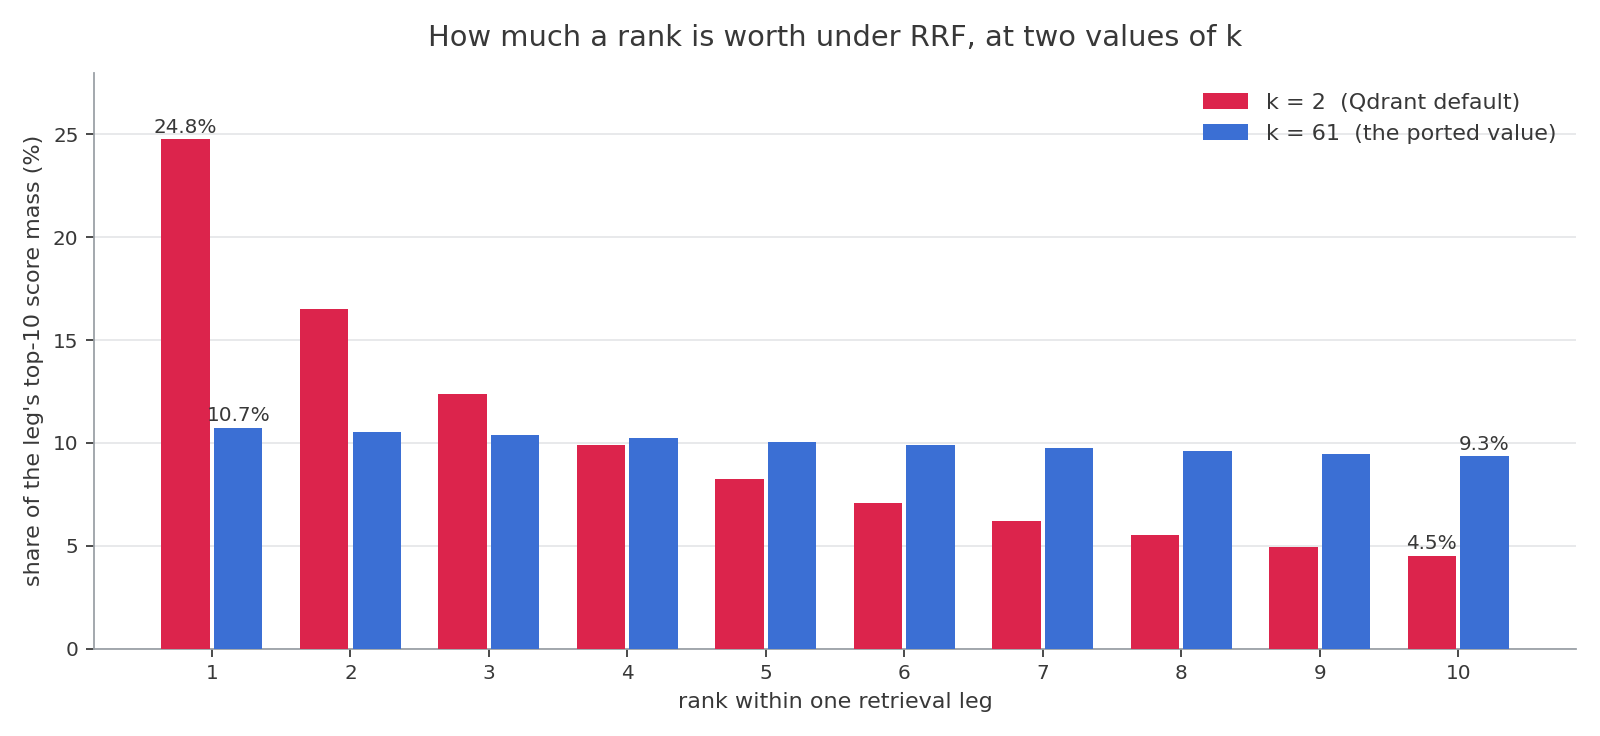
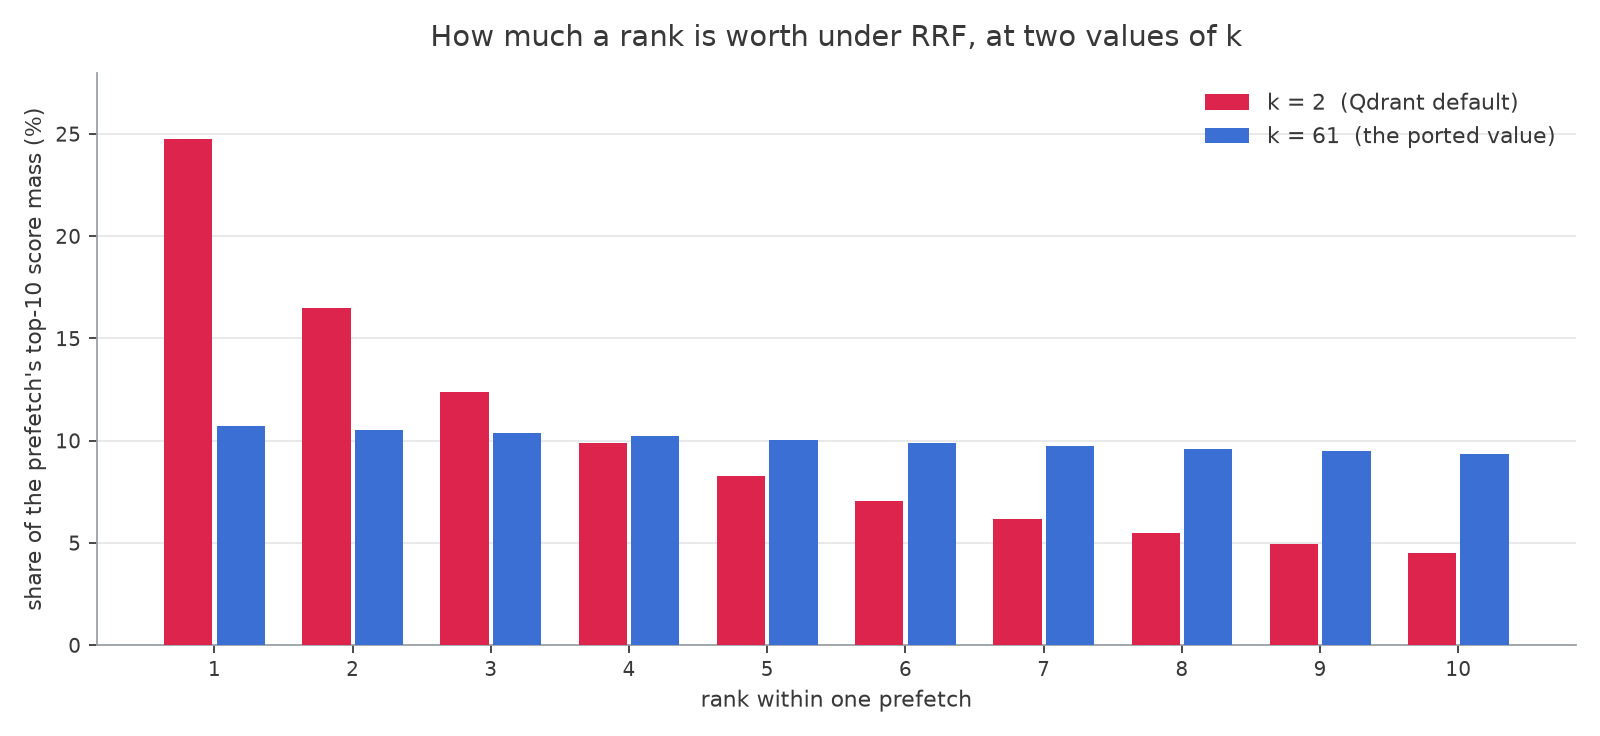
article 3

diff --git a/qdrant-landing/content/articles/how-to-tune-hybrid-search.md b/qdrant-landing/content/articles/how-to-tune-hybrid-search.md
@@ -7,7 +7,7 @@ social_preview_image: /articles_data/how-to-tune-hybrid-search/preview/social_pr
 weight: -211
 author: Dylan Couzon
 author_link: https://www.linkedin.com/in/dcouzon/
-date: 2026-08-13T00:00:00+03:00
+date: 2026-08-11T00:00:00+03:00
 draft: false
 keywords:
   - hybrid search tuning
@@ -18,79 +18,92 @@ keywords:
 category: search-quality
 ---
 
-Hybrid search gives you two lists and one ranking. A dense prefetch finds similar meaning; a sparse prefetch finds matching terms such as identifiers, SKUs, and error codes. Fusion combines them.
+Before you tune fusion, use the [pre-tuning checks](/articles/before-tuning-a-qdrant-collection/) to verify index state and set a labeled baseline.
 
-When the ranking looks plausible but not quite right, fusion is the cheapest place to look. It is arithmetic over two lists you already paid to retrieve: no rebuild, no extra latency, no second model.
+Hybrid search retrieves dense and sparse candidate lists, then fuses them into one ranking. The dense prefetch finds similar meaning; the sparse prefetch finds matching keywords. Fusion cannot rank a candidate neither prefetch returned.
 
-There are three knobs: the fusion method, RRF's `k`, and the weights. The numbers come from five public corpora of 5,183 to 100,000 documents, retrieved with `all-MiniLM-L6-v2` and Qdrant's core BM25, unquantized on a single shard. Every gain carries a 95% interval from resampling per-query differences, and [building a labeled set](/articles/before-tuning-a-qdrant-collection/) has the method.
+<aside role="status">
+In a multi-shard collection, each shard applies its own prefetch <code>limit</code>. With root-level fusion, Qdrant combines those candidates across shards. A larger limit can expose more candidates to fusion, but it also adds retrieval work and candidates for a downstream reranker. Fusion nested inside a prefetch runs per shard. The <a href="/articles/candidate-depth/">candidate depth guide</a> explains how to set it.
+</aside>
 
-Fusion can only rank what the two prefetches retrieved. [Candidate depth](/articles/candidate-depth/) decides that. Start the prefetch `limit` at 100 or 200 before tuning fusion.
+## Confirm Fusion Beats Either Prefetch
 
-That `limit` is per shard. Each shard runs the prefetch against its own data and returns up to `limit` candidates, so on twelve shards a `limit` of 200 gives the root-level fusion up to 2,400 documents to merge. The root-level fusion itself runs once, at collection level; only a fusion nested inside a prefetch runs per shard.
+Before tuning, compare dense retrieval, sparse retrieval, and their default RRF result with `nDCG@10`. It grades the top 10 results and gives more credit to relevant documents near the top. The last column is default RRF's `nDCG@10` minus the better individual prefetch.
 
-## Start With This Sweep
+These results come from five public datasets with 5,183 to 100,000 documents. Each collection ran unquantized on one shard, with `all-MiniLM-L6-v2` for dense retrieval and Qdrant's core BM25 for sparse retrieval.<br>
+Each reported gain was evaluated with a 95% interval. The held-out validation section explains how to use it. [Building a labeled set](/articles/before-tuning-a-qdrant-collection/) explains the method.
 
-If you have a labeled query set, try these settings in order:
+| Dataset | Dense alone | Sparse alone | Both, RRF (`k=2`) | Over the better one |
+|---|---|---|---|---|
+| SciFact | 0.6239 | 0.6886 | 0.7175 | +0.0289 |
+| ArguAna | 0.4905 | 0.4224 | 0.5216 | +0.0311 |
+| WANDS | 0.6921 | 0.7098 | 0.7254 | +0.0156 |
+| CodeSearchNet | 0.6299 | 0.5126 | 0.6555 | +0.0256 |
+| DBPedia-entity | 0.4677 | 0.3857 | 0.4638 | -0.0039 |
 
-1. Compare the RRF default with [DBSF](/documentation/search/hybrid-queries/#distribution-based-score-fusion-dbsf).
-2. If RRF wins, sweep `k` around 2 for queries with one clear answer, and around 20 to 61 when many documents can be relevant.
-3. Keep equal weights unless a measured difference supports a specific pair of weights.
-4. Confirm the winner on fresh queries. [Measuring retrieval relevance](/documentation/improve-search/retrieval-relevance/) explains how to build the evaluation set.
+Fusion outscored both prefetches in four datasets. DBPedia-entity shows why this is a measurement, not an assumption: fusion trails dense retrieval by 0.0039. The differences are small, so they do not establish a gain on your dataset.
 
-This is a small experiment with no rebuild and no new model call.
+The second prefetch costs a second index, a second vector per point, and 0.6 to 1.5 ms of query time in these single-shard measurements. Keep it when it improves relevance on your own labels.
 
-## What Each Fusion Setting Changes
+## RRF and DBSF Use Different Signals
 
-**The fusion method** decides how the two ranked lists become one. [Reciprocal Rank Fusion](/documentation/search/hybrid-queries/#reciprocal-rank-fusion-rrf) (RRF) reads only each document's position in a list. [Distribution-based score fusion](/documentation/search/hybrid-queries/#distribution-based-score-fusion-dbsf) (DBSF) normalizes each prefetch's scores against its own mean and standard deviation, then sums them. In other words, DBSF can use the size of a score lead, while RRF cannot.
+[Reciprocal Rank Fusion](/documentation/search/hybrid-queries/#reciprocal-rank-fusion-rrf) (RRF) uses only a candidate's position in each prefetch. [Distribution-based score fusion](/documentation/search/hybrid-queries/#distribution-based-score-fusion-dbsf) (DBSF) normalizes each prefetch's scores using that prefetch's mean and standard deviation, then sums them. DBSF can use the size of a score lead; RRF cannot.
 
-**The constant `k`** applies to RRF only. Qdrant scores a document at position `pos` in one prefetch as `1 / ((pos + 1) / weight + k - 1)`, then sums across prefetches. With equal weights that reduces to `1 / (pos + k)`, and `k` alone decides how steeply the head of a list outranks its tail.
+## Compare RRF and DBSF on Your Labels
 
-{{< figure src="/articles_data/how-to-tune-hybrid-search/rrf-k-rank-weight.png" alt="Grouped bar chart comparing the share of a retrieval prefetch's top-10 score mass at each rank, for k equal to 2 and k equal to 61. At k=2 rank 1 takes 24.8 percent and rank 10 takes 4.5 percent. At k=61 the shares are nearly flat, 10.7 percent at rank 1 and 9.3 percent at rank 10." caption="At Qdrant's default of k=2, rank 1 is worth 5.50x rank 10. At k=61 it is worth 1.15x, and the prefetch contributes little more than a membership vote." width="100%" >}}
-
-Low `k` rewards a document that one prefetch ranked first. High `k` flattens the curve until appearing in both lists matters more than either one's top rank.
-
-**A weight per prefetch** stretches or compresses that prefetch's positions. Both `k` and the weights live in `models.Rrf`. The plain `models.FusionQuery(fusion=models.Fusion.RRF)` form takes no parameters, so anything you want to tune goes through `RrfQuery`:
+Use your [labeled query set](/articles/before-tuning-a-qdrant-collection/#make-sure-your-labels-can-detect-a-gain) to compare RRF and DBSF over the same prefetches.<br>
+Start with RRF at `k=2` and equal weights, then run DBSF. If RRF wins, test `k` values from 2 to 61. If DBSF wins, take it forward to held-out validation. Lower values favor a document one prefetch ranks highly; higher values give more credit to documents both prefetches retrieve.
 
 ```python
-from qdrant_client import models
+import os
+
+from qdrant_client import QdrantClient, models
+
+client = QdrantClient(
+    url="https://YOUR-CLUSTER.cloud.qdrant.io",
+    api_key=os.environ["QDRANT_API_KEY"],
+)
 
 # Both prefetches must use the models the collection was indexed with.
 from your_embedding_setup import dense_query, sparse_query
 
 dense_prefetch = models.Prefetch(query=dense_query, using="dense", limit=200)
 sparse_prefetch = models.Prefetch(query=sparse_query, using="bm25", limit=200)
+prefetches = [dense_prefetch, sparse_prefetch]
 
-response = client.query_points(
+rrf_response = client.query_points(
     collection_name="products",
-    prefetch=[dense_prefetch, sparse_prefetch],
-    query=models.RrfQuery(rrf=models.Rrf(k=61, weights=[1.0, 1.0])),
+    prefetch=prefetches,
+    query=models.RrfQuery(rrf=models.Rrf(k=2, weights=[1.0, 1.0])),
     limit=10,
 )
+
+dbsf_response = client.query_points(
+    collection_name="products",
+    prefetch=prefetches,
+    query=models.FusionQuery(fusion=models.Fusion.DBSF),
+    limit=10,
+)
+
+# For an RRF variant, change k and keep the tested weight pair:
+# models.Rrf(k=20, weights=[1.0, 1.0])
 ```
 
-Those two named prefetches carry through every example below.
+This code requires Qdrant v1.17 or later and a compatible `qdrant-client` release that exposes `models.RrfQuery`.
 
-## Test DBSF Before Tuning RRF
+## Use Labels to Choose a `k` Range
 
-RRF is the right default, and it is Qdrant's, because it works when the two prefetches produce scores on incompatible scales. DBSF is one line to try.
+The constant `k` applies to RRF only. Qdrant scores a document at position `pos` in one prefetch as `1 / ((pos + 1) / weight + k - 1)`, then sums across prefetches. With equal weights that reduces to `1 / (pos + k)`, and `k` alone decides how steeply the head of a list outranks its tail.
 
-It was the better choice more often than not here: across five corpora it beat the RRF default on four, and on three of those the gain was large enough to survive a change of query sample.
+{{< figure src="/articles_data/how-to-tune-hybrid-search/rrf-k-rank-weight.png" alt="Grouped bar chart comparing the share of a retrieval prefetch's top-10 score mass at each rank, for k equal to 2 and k equal to 61. At k=2 rank 1 takes 24.8 percent and rank 10 takes 4.5 percent. At k=61 the shares are nearly flat, 10.7 percent at rank 1 and 9.3 percent at rank 10." caption="At Qdrant's default of k=2, rank 1 is worth 5.50x rank 10. At k=61 it is worth 1.15x, so a candidate's presence in a prefetch matters almost as much as its position." width="100%" >}}
 
-```python
-query=models.FusionQuery(fusion=models.Fusion.DBSF)
-```
+The table gives nDCG@10 at equal weights across five values of `k`, with the best RRF cell per row in bold. The `k=2` column is default RRF, and DBSF appears beside it.
 
-A document retrieved by only one prefetch keeps that prefetch's normalized score under DBSF. The prefetch that missed it adds nothing. The document therefore competes with one score against documents carrying the sum of two, which is why DBSF favors agreement.
+Every dataset ran the same stack: `all-MiniLM-L6-v2` for the dense prefetch, Qdrant's core BM25 for the sparse one, and 200 candidates from each.
 
-Its one loss was on ArguAna, 0.0045 below the default. That difference sits inside the corpus's measurement interval, so the result is inconclusive.
+For the DBSF column, a document retrieved by one prefetch keeps that prefetch's normalized score. A document retrieved by both carries two normalized scores.
 
-## Relevant Documents Per Query Point `k` in the Right Direction
-
-The table gives nDCG@10 at equal weights across five values of `k`, with the best RRF cell per row in bold and DBSF alongside. nDCG@10 grades the top 10 results and gives more credit to relevant documents near the top; [choosing a metric](/articles/before-tuning-a-qdrant-collection/#choose-a-metric-before-you-tune) covers when to use it.
-
-Every corpus ran the same stack: `all-MiniLM-L6-v2` for the dense prefetch, Qdrant's core BM25 for the sparse one, and 200 candidates from each.
-
-| Corpus | Queries | Relevant per query | k=1 | k=2 | k=5 | k=20 | k=61 | DBSF |
+| Dataset | Queries | Relevant per query | k=1 | k=2 | k=5 | k=20 | k=61 | DBSF |
 |---|---|---|---|---|---|---|---|---|
 | ArguAna | 1,401 | 1.0 | 0.517 | 0.522 | **0.530** | 0.527 | 0.521 | 0.517 |
 | CodeSearchNet | 1,000 | 1.0 | 0.650 | 0.656 | **0.658** | 0.651 | 0.626 | 0.672 |
@@ -98,81 +111,37 @@ Every corpus ran the same stack: `all-MiniLM-L6-v2` for the dense prefetch, Qdra
 | DBPedia-entity | 400 | 38.2 | 0.462 | 0.464 | 0.464 | **0.468** | 0.461 | 0.482 |
 | WANDS | 480 | 358.9 | 0.723 | 0.725 | 0.734 | 0.757 | **0.761** | 0.764 |
 
-The best `k` is different on every corpus, and it tracks how many documents are relevant per query.
+On ArguAna, DBSF is 0.0045 below default RRF. That difference sits inside the dataset's measurement interval, so the result is inconclusive.
 
-Where about one document per query is relevant, the winner sits at 2 or 5. The prefetch that found that document first should carry it.
+These five datasets suggest a direction: with about one relevant document per query, the best `k` was 2 or 5; with tens or hundreds, it was 20 or 61. Count relevant documents per query in your labeled query set, then try that part of the range first. This is a starting direction, not a setting to copy.
 
-Where tens or hundreds are relevant, the winner climbs to 20 or 61. Agreement between the two beats either one's top result.
-
-So count the relevant documents per query in your labeled set and sweep in that direction first. Five corpora do not make a rule, and this is a starting direction rather than a setting to copy.
-
-One porting note matters if you are moving a configuration into Qdrant. Qdrant defaults to 2; the 2009 paper that introduced RRF used 60, and [Elasticsearch defaults `rank_constant` to 60](https://www.elastic.co/docs/reference/elasticsearch/rest-apis/reciprocal-rank-fusion).
+One porting note matters if you are moving an RRF configuration into Qdrant. Some other search systems use `k=60` with one-based ranks, while Qdrant defaults to `k=2` and uses zero-based positions.
 
 Those systems score one-based ranks as `1 / (rank + constant)`, while Qdrant scores zero-based positions. Qdrant's `k` therefore equals their constant plus one at every rank. Use `k=61` to reproduce a classic `k=60`.
 
-## Inspect Which Prefetch Produced Each Result
-
-Take the top 10 for a handful of queries and label each result by which prefetch found it: dense only, sparse only, or both. On SciFact under the default, both found 79% of all top-10 results and 97% of the relevant ones. This shows the agreement effect in your own results before you run a broad sweep.
-
-The WANDS query "entrance table" shows that inspection on one query. The two ends of the `k` range disagree on the top result for 202 of the 480 WANDS queries. This is one of them.
-
-| Setting | Top result | Dense rank | Sparse rank | Label |
-|---|---|---|---|---|
-| k=2 | "puzzle table" | 1 | not retrieved | Irrelevant |
-| k=2, tied | "console table sofa table for entryway with drawers" | not retrieved | 1 | Exact |
-| k=61 | "natasha 44'' console table" | 8 | 6 | Exact |
-
-At `k=2`, the first result is a product only the dense prefetch retrieved, scoring 0.5 for being its rank 1 and nothing else. At `k=61`, the first result is a console table that both prefetches found in their top 10, and it is labeled Exact.
-
-Raising `k` changed which retrieved document got to be first.
-
-The tie in that table is worth its own note. Both `k=2` rows score exactly 0.5, because a document at rank 1 scores `1/(0+2)` whichever prefetch it came from.
-
-Fusion sorts on score alone and leaves tied documents in hash-map order, so two identical queries can return them in different orders. On SciFact, 12.5% of the fused top 10 sits in a tied group at `k=2`, against 2.8% at `k=61` and none under DBSF.
-
-Sorting the response by score and then by ID makes display order deterministic, but membership can still move. The server applies `limit` after sorting on score alone. When a tie straddles the cutoff, the server decides which documents survive before it builds the response.
-
-To stabilize membership, ask for more than you show, then sort and truncate on the client:
-
-```python
-# Over-fetch so a tied group at the boundary lands inside the response
-# instead of being cut inside the server, then decide the order yourself.
-response = client.query_points(
-    collection_name="products",
-    prefetch=[dense_prefetch, sparse_prefetch],
-    query=models.RrfQuery(rrf=models.Rrf(k=2)),
-    limit=50,
-)
-top10 = sorted(response.points, key=lambda p: (-p.score, p.id))[:10]
-```
-
-Over-fetching works only when the larger response contains the whole tied group. Compare the score at rank 10 with the score of the last point fetched. If they match, the server is still cutting the group, so raise the fetch limit until the scores differ.
+<aside role="status">
+When RRF assigns the same score to documents at the final result limit, repeated queries can return different documents at that cutoff. Request more final results than you display, sort by descending score and ascending ID on the client, then truncate. If the last returned score still equals the score at the display cutoff, Qdrant has not returned the whole tied group.
+</aside>
 
 ## Weights Are Pairs, Not Ratios
 
-Weights look like a ratio and behave like a pair of numbers. Each prefetch contributes `1 / ((pos + 1) / weight + k - 1)`, so scaling both weights by the same factor changes every score and can change the final order. On WANDS at `k=5`, `(1, 2)` and `(2, 4)` share a ratio and score 0.739 and 0.751. Copy the exact pair you tested.
+Start with equal weights. Try a different pair only when a measured result supports it: weights look like a ratio but behave as an absolute pair.<br>
+Each prefetch contributes `1 / ((pos + 1) / weight + k - 1)`, so scaling both weights by the same factor changes every score and can change the final order. On WANDS at `k=5`, `(1, 2)` and `(2, 4)` share a ratio but achieve `nDCG@10` values of 0.739 and 0.751. Copy the exact pair you tested.
 
-Two edges of the same knob behave in ways a ratio does not predict. A weight of 0.0 keeps every document from that prefetch and scores each one 0.0. The documents stay at the bottom of the fused list instead of disappearing.
+A weight of 0.0 keeps every document from that prefetch and scores each one 0.0. The documents stay at the bottom of the fused list instead of disappearing.
 
-A prefetch with no query scores every point 1.0, which under DBSF gives it zero standard deviation and flattens it to a constant 0.5 for every document, contributing no ordering at all.
+## Confirm the Selected Configuration on Held-Out Queries
 
-## Check the Winner on Fresh Queries
+A configuration can score best on the queries used to select it and still fail on held-out queries. [The pre-tuning checks](/articles/before-tuning-a-qdrant-collection/) provide both tests: a bootstrap interval on per-query gain, and a split between selection and held-out queries.
 
-A sweep always produces a winner. You still need to know whether it beat the default or only fit this set of queries. [The pre-tuning checks](/articles/before-tuning-a-qdrant-collection/) provide both tests: a bootstrap interval on per-query gain, and a split between the queries that choose the setting and the queries that report it.
+Both tests matter here. On SciFact's 300 queries, nothing we tried cleared its interval. DBSF gains 0.0148, but its interval runs from -0.0001 to +0.0290 and still crosses zero. Across 200 random splits, a selected fusion configuration kept 67% to 95% of its gain on held-out queries.
 
-Both tests matter here. On SciFact's 300 queries, nothing we tried cleared its interval. DBSF gains 0.0148, but its interval runs from -0.0001 to +0.0290 and still crosses zero. Across 200 random splits, a swept fusion winner kept 67% to 95% of its gain on queries that had no say in choosing it.
+Use a configuration only when it clears both checks. Keeping the default because nothing cleared is a real answer, and it was the right one on one of our five datasets.
 
-Ship the setting that clears the split, and if two clear, take the one with equal weights, since a weight pair is absolute and does not survive being rescaled. Keeping the default because nothing cleared is a real answer, and it was the right one on one of our five corpora.
+## Int8 Quantization Barely Moved Fusion Here
 
-## Quantization Barely Moved Fusion Here
+Every number above comes from an unquantized collection. For RRF, quantization changes fusion only when it reorders the candidate lists. For DBSF, changes to the returned scores can also change the fused result.
 
-Every number above comes from an unquantized collection, while a collection at scale is usually quantized. Fusion reads ranks, so quantization matters only when it reorders the candidate lists enough to change the result.
+The effect was negligible here. Rebuilding SciFact and DBPedia-entity with int8 scalar quantization changed none of the conclusions: the best `k` stayed 2 and 20, DBSF still beat the default, and fused nDCG@10 moved by at most 0.0002. [Candidate depth](/articles/candidate-depth/) has the full measurement, including what `rescore` and `oversampling` recover.
 
-The effect was negligible here. Rebuilding SciFact and DBPedia with int8 scalar quantization changed none of the conclusions: the best `k` stayed 2 and 20, DBSF still beat the default, and fused nDCG@10 moved by at most 0.0002. [Candidate depth](/articles/candidate-depth/) has the full measurement, including what `rescore` and `oversampling` recover.
-
-## Adjacent Work
-
-- [Cormack, Clarke, and Buettcher (2009)](https://plg.uwaterloo.ca/~gvcormac/cormacksigir09-rrf.pdf) introduced RRF and fixed `k=60` in a pilot, reporting that the choice "was not critical" for fusing 30 runs of one engine. Two prefetches of different kinds is a different problem, and the table above is why the constant is worth a sweep.
-- [Bruch, Gai, and Ingber (2023)](https://arxiv.org/abs/2210.11934) find RRF sensitive to its parameters and report gains on eight of nine datasets from dropping `k` from 60 to 5. They measure at rank 1000, where these numbers are at 10.
-- [Hybrid queries](/documentation/search/hybrid-queries/) covers the full prefetch and fusion API, including nested prefetches and Formula Query for custom scoring.
-- [Choosing a Fusion Method](https://github.com/qdrant/examples/blob/master/fusion-methods/Choosing_a_Fusion_Method.ipynb) is the earlier notebook this work extends, on SciFact alone.
+Next, if a downstream model could improve the order of your retrieved candidates, [test whether a reranker is worth its cost](/articles/when-a-reranker-is-worth-it/).
